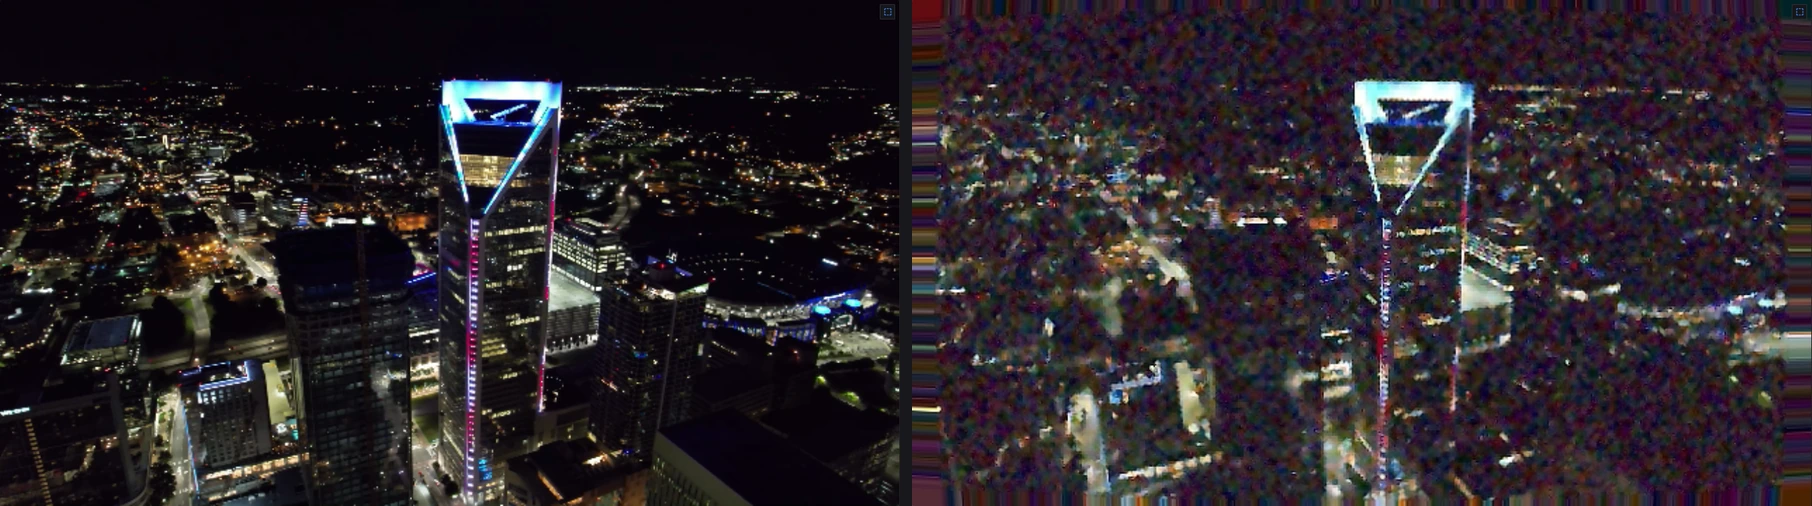
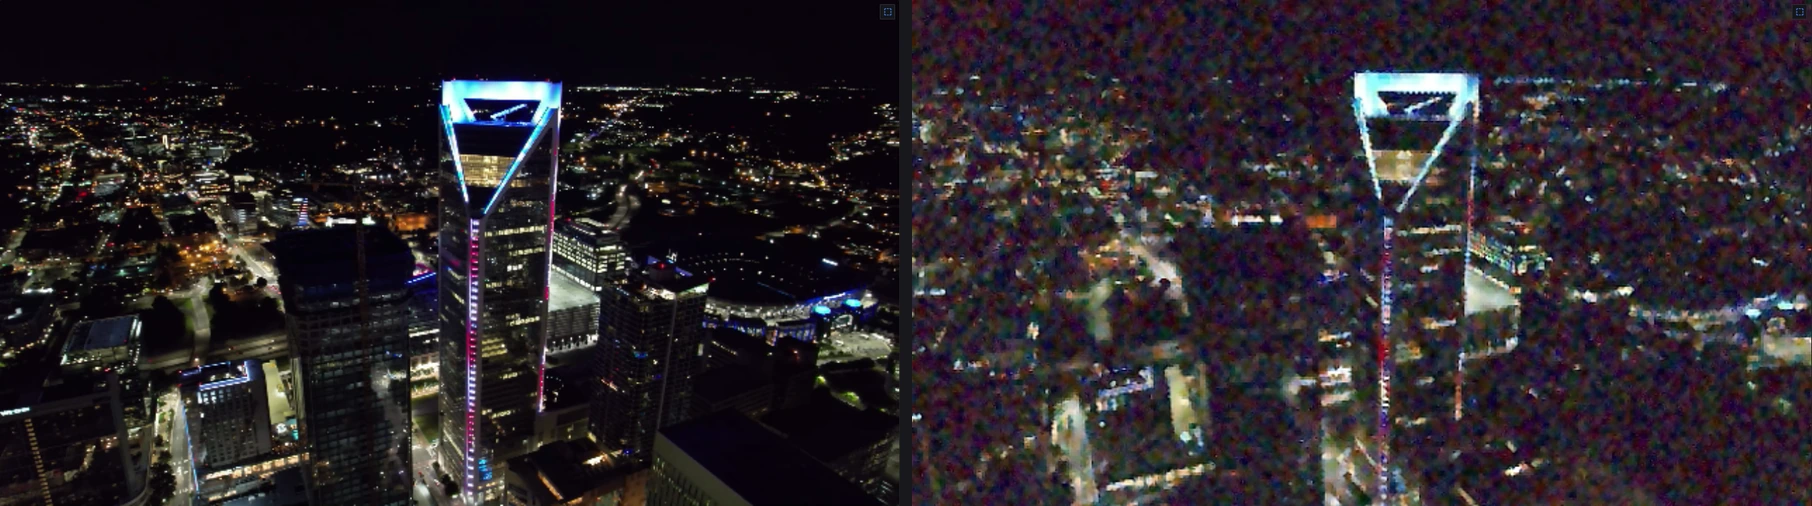
camera-isp-edges 2: re-take fx-camera-isp on the showcase footage; archive the change into video-fx

Changed region(s): [[0.4945, 0.0, 1.0, 1.0]]

diff --git a/openspec/specs/video-fx/spec.md b/openspec/specs/video-fx/spec.md
@@ -727,13 +727,18 @@ chroma and a decoder matrix. A `view` row SHALL show the picture after any stage
 light through the lens, the pixel charge, the raw, the raw after each correction, the demosaic,
 the lens correction, luma, chroma). The picker SHALL offer the presets phone at night, cheap
 webcam, security camera at night (IR), cinema raw, wrong CFA phase and no IR-cut filter, each only
-a set of the passport's rows.
+a set of the passport's rows. The camera SHALL film only the scene it has and its ISP SHALL read
+only the sensor: the lens's focal length is fitted so that every ray of the sensor's border, in
+every channel, lands inside the recorded frame, and the ISP's lens correction crops its output to
+the region the sensor covers — no stage repeats an edge texel into a band.
 Why: the owner's request I1 of kkt-26.11.01 and his rule of 2026-11-01 — an imitation of a
 physical effect is not a simulation of it; and his review of the same day: "you added the noise but
 not the denoiser … the PAIRED block of optics compensation simply does not exist … what is hidden
 in real ISPs, the distortions and the ways to remove them, you had to put into the fx" (F-FX-010).
 The temporal stages (3DNR with its trails, rolling shutter, mains flicker) need the slot's previous
-output and are the change `temporal-barrier-3dnr`, not part of this requirement.
+output and are the change `temporal-barrier-3dnr`, not part of this requirement. The field rule:
+the README footage (2026-11-03) showed "Phone at night" with a 30 px smear along the edges — the
+dewarp read past the sensor, and a barrel lens past the frame (camera-isp-edges).
 
 #### Scenario: A clean chain reproduces the input
 - **WHEN** a smooth colour frame passes `camera_isp` on every layout and demosaic, with no temporal
@@ -811,7 +816,10 @@ output and are the change `temporal-barrier-3dnr`, not part of this requirement.
   — distortion, lateral CA, vignetting, colour shading, Gr/Gb imbalance, a column fixed pattern, hot
   pixels — once with its ISP block calibrated and once with the block off
 - **THEN** without the block the picture differs visibly from the ideal camera's; with the block the
-  difference falls below half (for hot pixels: at most a quarter of the lit pixels remain)
+  difference falls below half (for hot pixels: at most a quarter of the lit pixels remain); a
+  geometric pair is compared with the ideal camera at the output's own paraxial magnification
+  (crop/fit with the block, 1/fit without), since correcting distortion on a sensor no larger than
+  the output costs field
 - **TEST** t1220 (`src/plugins/fx-video-camera/tests/consequences.rs`)
 
 #### Scenario: The view shows any stage
@@ -833,4 +841,12 @@ output and are the change `temporal-barrier-3dnr`, not part of this requirement.
   filmed with blooming 0 and 1
 - **THEN** raw NR at least halves the noise variance of the flat part and keeps the edge step within
   12 LSB; with blooming the raw of the spot's neighbour rises by more than 200 DN
-- **TEST** t1223 (`src/plugins/fx-video-camera/tests/consequences.rs`)
+
+#### Scenario: The frame's edges are picture, not smears
+- **WHEN** a frame whose brightness is a sawtooth along each axis (rising from every edge inward)
+  is filmed by every preset, the defaults and strong distortion and lateral CA with corrections
+  off, weak, calibrated and doubled, on the CPU and on the GPU
+- **THEN** the mean along the middle third of each edge changes by at least 1.5 LSB within every
+  4 px of depth from 1 to 28 px — no band repeats the edge texel; with distortion and CA 0 the
+  bytes are the old ones
+- **TEST** t1430 (`src/libs/kt-gpu/tests/camera_isp.rs`), t328

diff --git a/openspec/changes/archive/2026-11-03-camera-isp-edges/tasks.md b/openspec/changes/archive/2026-11-03-camera-isp-edges/tasks.md
@@ -9,4 +9,10 @@ Test number t1430 is used by this change (t1431–t1434 reserved and free).
 - [x] 1.3 t1220's geometric reference at the output's own magnification; t1430 on both executors, red on the old kernel
 - [x] 1.4 The video-fx scenario and design; What's new
   - Done. `cargo test --workspace --no-fail-fast`: 201 suites green but t815 (a wall-clock bound on writing the restore record; load average 44 on 32 cores from parallel sessions; green alone); clippy clean on the touched crates
-- [ ] 1.5 Re-take `fx-camera-isp`; finish.sh
+- [x] 1.5 Re-take `fx-camera-isp`; finish.sh
+  - Done. The shot re-taken by `readme-shots.py --sources …/showcase-media` on the release build
+    (display :241 — another session held :231); at 1:1 the old shot's edge streaks (left, top,
+    right, bottom) are gone. finish.sh kt26.11.03-485fc95a: workshop tests 1450/1450, SIMD
+    conformance green; live scenarios at load 20–44 — all green alone but `formula` (its
+    "space plays" check, red at load 10–19 on two different steps; this change touches no
+    kt-app, automation or formula code; a sibling session saw the same load red)
